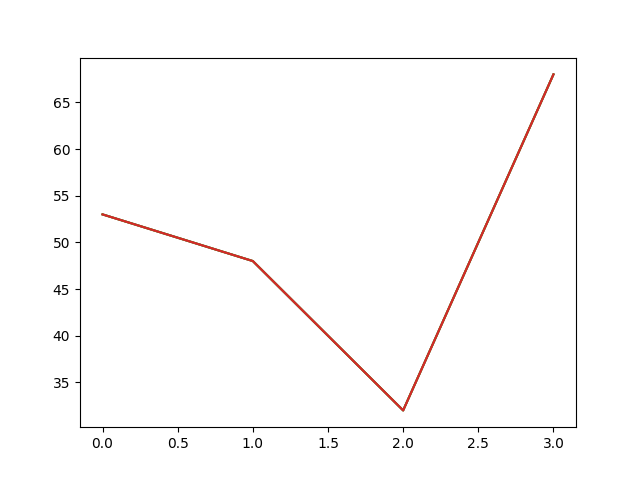
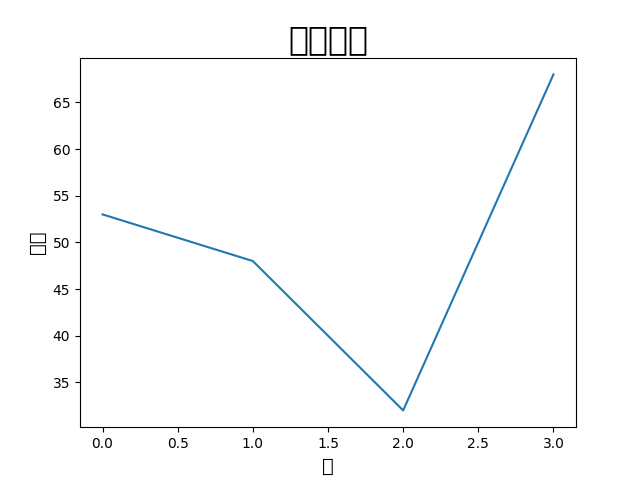
使用柱形图，并把x设置成2009年开始的

diff --git a/reports/views.py b/reports/views.py
@@ -376,7 +376,16 @@ def mat(request, entry_id):
     except ValueError:
         return HttpResponseRedirect(reverse('reports:show_report', args=[entry.report_id]))
     else:
-        plt.plot(entry_check_results_list)
+        counter = len(entry_check_results_list)
+        years = 2009
+        names =
+        plt.bar(entry_check_results_list)
+        # 设置图表标题，并给坐标轴加上标签
+        plt.title('square number', fontsize=24)
+        plt.xlabel('year', fontsize=14)
+        plt.ylabel('value', fontsize=14)
+        #设置刻度标记的大小
+        plt.tick_params(axis='both', labalsize=14)
         plt.savefig('static/images/reports/{id}.png'.format(id=entry_id))
         context = {
             'entry': entry,
